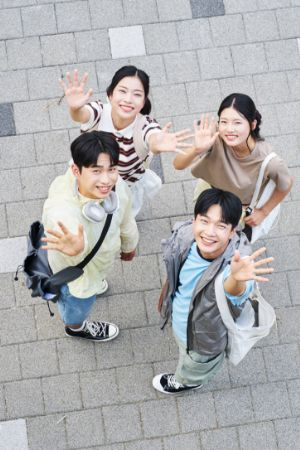
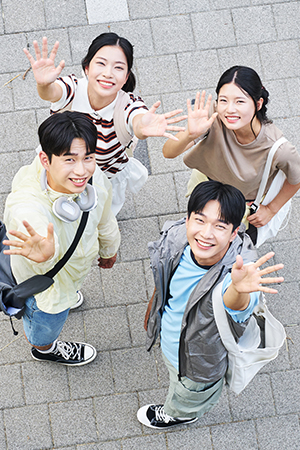
latest version

diff --git a/src/pages/business/product/Sort.jsx b/src/pages/business/product/Sort.jsx
@@ -27,6 +27,7 @@ const Sort = () => {
       name: "두유액 생산",
       keywords: { pre: "콩의 영양을 담아", mid: "맞춤형 두유액", last: "우리나라 최소의 두유 기술력" },
       heroImg: "/common/imgs/business/pro01_01.jpg",
+      heroImgM: "/common/imgs/business/proT_01.jpg",
       images: {
         pre: "/common/imgs/business/pro01_02.jpg",
         mid: "/common/imgs/business/pro01_03.jpg",
@@ -56,6 +57,7 @@ const Sort = () => {
       name: "단백질 음료 생산",
       keywords: { pre: "#마시는단백질", mid: "#한팩으로", last: "#언제어디서나" },
       heroImg: "/common/imgs/business/pro02_01.jpg",
+      heroImgM: "/common/imgs/business/proT_02.jpg",
       images: {
         pre: "/common/imgs/business/pro02_02.jpg",
         mid: "/common/imgs/business/pro02_03.jpg",
@@ -80,6 +82,7 @@ const Sort = () => {
       name: "균형영양식 생산",
       keywords: { pre: "#영양가득", mid: "#건강습관", last: "#균형설계" },
       heroImg: "/common/imgs/business/pro03_01.jpg",
+      heroImgM: "/common/imgs/business/proT_03.jpg",
       images: {
         pre: "/common/imgs/business/pro03_02.jpg",
         mid: "/common/imgs/business/pro03_03.jpg",
@@ -106,6 +109,7 @@ const Sort = () => {
       name: "파티클 생산",
       keywords: { pre: "#씹는즐거움", mid: "#알갱이톡톡", last: "#재미있는식감" },
       heroImg: "/common/imgs/business/pro04_01.jpg",
+      heroImgM: "/common/imgs/business/proT_04.jpg",
       images: {
         pre: "/common/imgs/business/pro04_02.jpg",
         mid: "/common/imgs/business/pro04_03.jpg",
@@ -132,6 +136,7 @@ const Sort = () => {
       name: "식혜 생산",
       keywords: { pre: "#전통방식", mid: "#당도조절가능", last: "#밥알취향존중" },
       heroImg: "/common/imgs/business/pro05_01.jpg",
+      heroImgM: "/common/imgs/business/proT_05.jpg",
       images: {
         pre: "/common/imgs/business/pro05_02.jpg",
         mid: "/common/imgs/business/pro05_03.jpg",
@@ -158,6 +163,7 @@ const Sort = () => {
       name: "소스 생산",
       keywords: { pre: "#간편요리", mid: "#HMR", last: "#맛의완성" },
       heroImg: "/common/imgs/business/pro06_01.jpg",
+      heroImgM: "/common/imgs/business/proT_06.jpg",
       images: {
         pre: "/common/imgs/business/pro06_02.jpg",
         mid: "/common/imgs/business/pro06_03.jpg",
@@ -183,6 +189,7 @@ const Sort = () => {
       name: "멸균유 생산",
       keywords: { pre: "#멸균우유", mid: "#신선함그대로", last: "#상온보관" },
       heroImg: "/common/imgs/business/pro07_01.jpg",
+      heroImgM: "/common/imgs/business/proT_07.jpg",
       images: {
         pre: "/common/imgs/business/pro07_02.jpg",
         mid: "/common/imgs/business/pro07_03.jpg",
@@ -211,6 +218,7 @@ const Sort = () => {
       name: "주스 생산",
       keywords: { pre: "#과채음료", mid: "#과채주스", last: "#과일야채블렌딩" },
       heroImg: "/common/imgs/business/pro08_01.jpg",
+      heroImgM: "/common/imgs/business/proT_08.jpg",
       images: {
         pre: "/common/imgs/business/pro08_02.jpg",
         mid: "/common/imgs/business/pro08_03.jpg",
@@ -238,6 +246,7 @@ const Sort = () => {
       name: "커피 생산",
       keywords: { pre: "#RTD커피", mid: "#편리하게", last: "#다양한맛" },
       heroImg: "/common/imgs/business/pro09_01.jpg",
+      heroImgM: "/common/imgs/business/proT_01.jpg",
       images: {
         pre: "/common/imgs/business/pro09_02.jpg",
         mid: "/common/imgs/business/pro09_03.jpg",
@@ -348,9 +357,9 @@ const Sort = () => {
             <div className="container">
               <div className="project-client-details__list">
                 <ul className="project-client-details__list__item">
-                  <li>{data?.pre}</li>
-                  <li>{data?.mid}</li>
-                  <li>{data?.last}</li>
+                  <li>{data?.keywords.pre}</li>
+                  <li>{data?.keywords.mid}</li>
+                  <li>{data?.keywords.last}</li>
                 </ul>
               </div>
             </div>
@@ -367,7 +376,7 @@ const Sort = () => {
               />
             </div>
             <div className="mView">
-              <img class="img100 radius20" src={data?.heroImg} alt="두유병과 곡물들" />
+              <img class="img100 radius20" src={data?.heroImgM} alt="두유병과 곡물들" />
             </div>
           </section>
 

diff --git a/src/router/root.jsx b/src/router/root.jsx
@@ -186,15 +186,22 @@ const root = createBrowserRouter(
     },
     /* 옛날 닷넷 주소 변환  */
     { path: "/kr/Company/Recruit.aspx", element: <Navigate to="/recruit/info" replace /> },
+
     { path: "/kr/Product/pd_Asepsis.aspx", element: <Navigate to="/business/containers" replace /> },
     { path: "/kr/Product/pd_Can.aspx", element: <Navigate to="/business/containers" replace /> },
+    { path: "/kr/Company/Business.aspx", element: <Navigate to="/business/containers" replace /> },
+
     { path: "/kr/Company/Greeting.aspx", element: <Navigate to="/about/ceo" replace /> },
+    { path: "/kr/Company/Info.aspx", element: <Navigate to="/about/ceo" replace /> },
+
     { path: "/Company/Info.aspx", element: <Navigate to="/about/ceo" replace /> },
     { path: "/kr/Company/Road.aspx", element: <Navigate to="/about/road" replace /> },
     { path: "/kr/Company/Vision.aspx", element: <Navigate to="/about/vision" replace /> },
     { path: "/kr/Company/Foodsafe.aspx", element: <Navigate to="/certification/haccp" replace /> },
     /* 임시로 */
-    { path: "    /kr/RnD/History.aspx", element: <Navigate to="/" replace /> },
+    { path: "/kr/RnD/History.aspx", element: <Navigate to="/" replace /> },
+    { path: "/kr/Product/Trade.aspx", element: <Navigate to="/" replace /> },
+    { path: "/kr/Customer/Support.aspx", element: <Navigate to="/" replace /> },
   ],
   {
     basename: import.meta.env.BASE_URL, // 깃허브 페이지스를 위한 설정

diff --git a/dist/index.html b/dist/index.html
@@ -51,7 +51,7 @@
     <link href="/common/css/content.css" rel="stylesheet" />
     <link href="/common/css/reset.css" rel="stylesheet" />
     <title>대한민국 No.1 OEM 자연과사람들</title>
-    <script type="module" crossorigin src="/assets/index-k-onQF2C.js"></script>
+    <script type="module" crossorigin src="/assets/index-NhWY8P0P.js"></script>
     <link rel="stylesheet" crossorigin href="/assets/index-DGoAdr57.css">
   </head>
   <style>
@@ -71,7 +71,17 @@
       height: 100%;
     }
   </style>
-
+  <script type="text/x-javascript">
+    (function(w, d, a){
+        w.__beusablerumclient__ = {
+            load : function(src){
+                var b = d.createElement("script");
+                b.src = src; b.async=true; b.type = "text/x-javascript";
+                d.getElementsByTagName("head")[0].appendChild(b);
+            }
+        };w.__beusablerumclient__.load(a + "?url=" + encodeURIComponent(d.URL));
+    })(window, document, "//rum.beusable.net/load/b161207e112311u833");
+  </script>
   <body>
     <div id="root"></div>
 

diff --git a/index.html b/index.html
@@ -69,7 +69,17 @@
       height: 100%;
     }
   </style>
-
+  <script type="text/x-javascript">
+    (function(w, d, a){
+        w.__beusablerumclient__ = {
+            load : function(src){
+                var b = d.createElement("script");
+                b.src = src; b.async=true; b.type = "text/x-javascript";
+                d.getElementsByTagName("head")[0].appendChild(b);
+            }
+        };w.__beusablerumclient__.load(a + "?url=" + encodeURIComponent(d.URL));
+    })(window, document, "//rum.beusable.net/load/b161207e112311u833");
+  </script>
   <body>
     <div id="root"></div>
 
